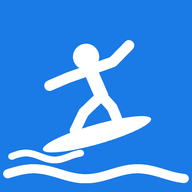
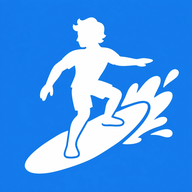
Иконка приложения от Пу
Присланный силуэт сёрфингиста нарезан в нужные размеры. Фон выровнен
в один тон: в исходнике он слегка плавал из-за сжатия.

icon-192 и icon-512 — рисунок во всё полотно, как прислан. Отдельный
icon-512-maskable — тот же рисунок, уменьшенный до 72% полотна: Android
обрезает иконку под форму значка, и без запаса срезало бы нос доски слева
и брызги справа.

Кеш поднят до v19.

Claude-Session: https://claude.ai/code/session_015w6iDUZ8GWjkctjsFcG7Gd

Changed region(s): [[0.0, 0.0625, 1.0, 0.9688]]

diff --git a/sw.js b/sw.js
@@ -1,5 +1,5 @@
-// Surf PWA Service Worker v18
-var CACHE = 'surf-v18';
+// Surf PWA Service Worker v19
+var CACHE = 'surf-v19';
 var ASSETS = [
   './',
   './index.html',
